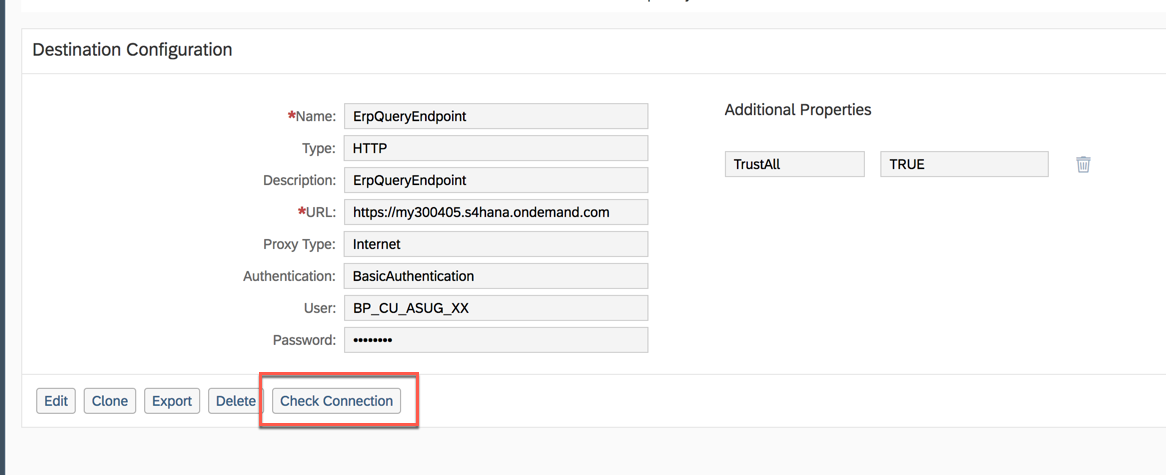
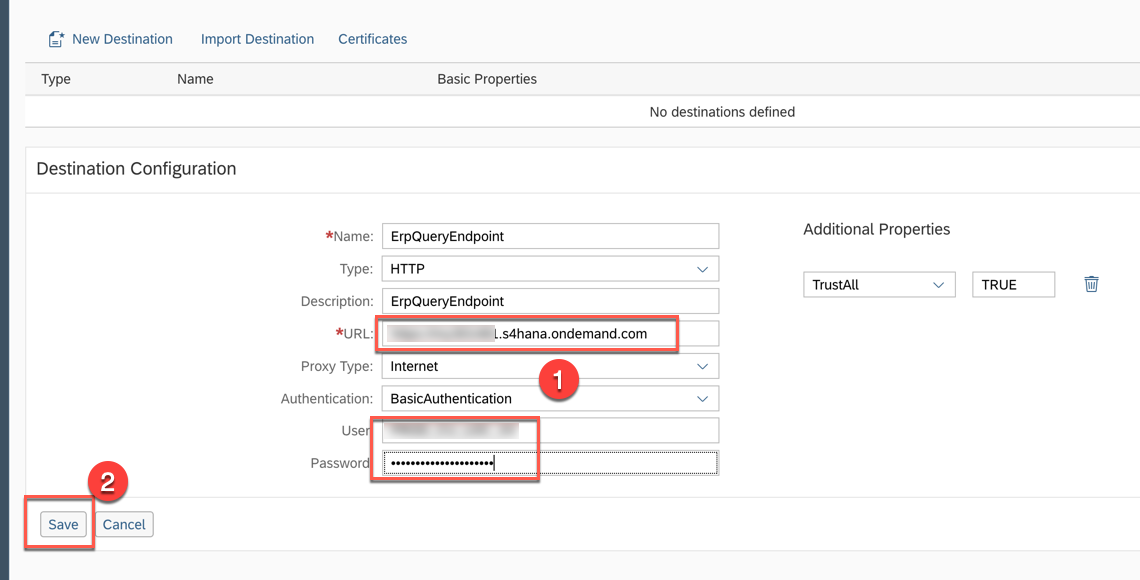
Exercise 2_4 is done

diff --git a/Day2/Exercise_24/Exercise_24.md b/Day2/Exercise_24/Exercise_24.md
@@ -1,7 +1,7 @@
 <table width=100% border=>
 <tr><td colspan=2><img src="images/spacer.png"></td></tr>
 <tr><td colspan=2><h1>EXERCISE 24 - Create service destinations on both SAP Cloud Platform Neo and Cloud Foundry environments</h1></td></tr>
-<tr><td><h3>ASUG PreConference 2018</h3></td><td><h1><img src="images/clock.png"> &nbsp;10 min</h1></td></tr>
+<tr><td><h3>SAP S/4HANA Cloud Bootcamp</h3></td><td><h1><img src="images/clock.png"> &nbsp;10 min</h1></td></tr>
 </table>
 
 
@@ -26,99 +26,110 @@ The goal of this document is to set up some required services for the next exerc
   
 Here below are prerequisites for this exercise.
 
+* You have completed exercise 2_3
 * An account on the SAP Cloud Platform: it will be provided by your instructor along with the required credentials
 * The destination file you can download [here](files/ErpQueryEndpoint_CF.zip). Extract it in a proper location on your disk
 
 
 ## Steps
 
-1. [Create the destination services on SAP CF and check the Neo environemnt](#bpr-destination)
-1. [Check the Neo environemnt](#neo-environment)
+1. [Adjust the destination in the Neo environment](#neo-destination)
+1. [Create the destination services on SAP CF](#cf-destination)
 
+### <a name="neo-destination"></a>Adjust the destination in the Neo environment
+In order to work with Application Programming Model and access the backend from SAP Web IDE we need to do a quick adjustment to the destination on Neo environment
 
-### <a name="bpr-destination"></a>Create the destination services on SAP CF and check the Neo environment
-In this chapter you are going to see how to create an instance of the destination service on SAP Cloud Foundry and how to import a destination file into it.
-
-1. Login to SAP Cloud Platform <https://account.hana.ondemand.com/cockpit#/globalaccount/8fd39023-a237-4d71-9b6a-ed9d1719d275/subaccount/1d4a4a5d-2ada-4584-9c6a-631cb5fa80f2/spaces> with the credentials provided by your instructor 
+1. Go to your SAP Cloud Platform Trial account <https://account.hanatrial.ondemand.com/cockpit> entering your credentials. Click on the **Neo Trial** environment  
 	![](images/01.png)
 
-1. You will find a SAP Cloud Foundry subaccount prepared for you with a space named **ASUGCF_DevXXX** where XXX is your workstation ID. Click on the **ASUGCF** link on the top of the page to go to the subaccount's details  
+1. Select **Connectivity -> Destinations** on the left hand side. You should see the **ErpQueryEndpoint** destination you already created in the exercise 2_3
 	![](images/02.png)
 
-1. Take note of the **API Endpoint** you find on the right side because it will be required in the next exercises when we will ask you to specify your SAP Cloud Foundry API Endpoint and click on the **Spaces** number, just above the API Endpoint    
+1. Select the **ErpQueryEndpoint** destination and click on **Edit** to put the destination in edit mode  
 	![](images/03.png)
 
-1. You are now into your space. It should be empty: if not, please feel free to delete any application you find  
+1. Add the following additional properties and click on **Save**
+	
+	| Property | Value |
+	| -------- | ----- |
+	| WebIDESystem | ErpQueryEndpoint |
+	| WebIDEEnabled | True |
+	| WebIDEUsage | odata_gen |
+	
 	![](images/04.png)
+
+1. This is how your destination should look like after the changes  
+	![](images/05.png)
+
+1. Click on **Home** to go to the home page of your cockpit
+	![](images/06.png)
+
+
+
+
+
+### <a name="cf-destination"></a>Create the destination services on SAP CF
+Let's create a destination to the S/4HANA Cloud back-end for Cloud Foundry as well.
+
+1. Click on the **Cloud Foundry Trial** environment of your Trial account 
+	![](images/07.png)
+
+1. Click on the **trial** subaccount
+	![](images/08.png)
+ 
+1. Take note of the **API Endpoint** you find on the right side because it will be required in the next exercises when we will ask you to specify your SAP Cloud Foundry API Endpoint; then click on **Spaces** in the left hand side toolbar    
+	![](images/09.png)
+
+1. Click on the **dev** space  
+	![](images/10.png)
+
+1. You are now into your space. It should be empty: if not, please delete any application you find since we require space for our exercise  
+	![](images/11.png)
 
 1. Click on the **Service Marketplace** and then on the **destination** tile to create an instance of the **destination** service  
 	![](images/12.png)
 
-1. Click on **Instances** and then on **New Instance**  
+1. Click on **Instances**  
 	![](images/13.png)
 
-1. Choose the **lite** plan and click **Next**  
+1. Click on **New Instance**  
 	![](images/14.png)
 
-1. Click **Next**  
+1. Choose the **lite** plan and click **Next**  
 	![](images/15.png)
 
-1. Don't select any application for the moment and click **Next** again  
+1. Click **Next**  
 	![](images/16.png)
 
-1. Enter **bpr_destination** as the instance name and click **Finish**  
+1. Don't select any application for the moment and click **Next** again  
 	![](images/17.png)
 
-1. Your **bpr_destination** instance has been successfully created. Click on the name of this instance  
+1. Enter **s4hc_destination** as the instance name and click **Finish**  
 	![](images/18.png)
 
-1. Select the **Destinations** tab on the left hand side and click on **Import Destination**  
+1. Your **s4hc_destination** instance has been successfully created. Click on the name of this instance  
 	![](images/19.png)
 
-1. Locate the file *ErpQueryEndpoint_CF* you extracted from the zip downloaded in the prerequisites to this exercise  
+1. Select the **Destinations** tab on the left hand side and click on **Import Destination**  
 	![](images/20.png)
 
-1. The file will be imported. Just enter the credentials provided by your instructor and click **Save**  
+1. Locate the file *ErpQueryEndpoint_CF* you extracted from the zip downloaded in the prerequisites to this exercise and import it  
 	![](images/21.png)
 
-1. After saving, you can check the new destination by clicking on the button **Check Connection**  
+1. Before clicking on **Save**, replace the existing URL and the credentials with the one you created in exercise 2_2  
 	![](images/22.png)
 
-1. You should get the message **Connection to "ErpQueryEndpoint"" established. Response returned: "302: Redirect"**. Click on **Close**  
+1. After saving, you can check the new destination by clicking on the button **Check Connection**  
 	![](images/23.png)
 
-
-### <a name="neo-environment"></a>Check the Neo environemnt
-Let's gie a look now to the NEO environment and let's check that everything is in place.
-
-1. Click on this link <https://account.hana.ondemand.com/cockpit> and enter the credentials for the NEO environment provided by your instructor
+1. You should get the message **Connection to "ErpQueryEndpoint"" established. Response returned: "302: Redirect"**. Click on **Close**  
 	![](images/24.png)
 
-1. Just click on **Confirm** in case you receive this kind of message  
-	![](images/24_2.png)
-
-1. Click on the **TechEd2018** Global Account  
-	![](images/24_3.png)
-
-1. Click on the **ASUG** subaccount  
-	![](images/24_4.png)
-
-1. **[Read and Check Only]** Select **Connectivity -> Destinations** on the left hand side and just make sure that the **ErpQueryEndpoint** destination is correctly in place. Here we have already imported this destination since all the users will share it in the next exercises
-	![](images/26.png)
-
-1. Click on **Services**, enter the text "**web**" in the search box, and click on the **SAP Web IDE Full-Stack** tile  
-	![](images/27.png)
-
-1. Click on **Go to Service**  
-	![](images/28.png)
-
-1. The **SAP Web IDE** tools is launched. Please bookmark this URL becaue it will be used in the next exercises  
-	![](images/29.png)
 
 1. Congratulations! You have successfully completed this exercise.
 
 
 
 ## Summary
-This concludes the exercise. You should have learned how to create a Destination service instance in SAP Cloud Foundry. Please proceed with the [next exercise](../Exercise2/Exercise2.md).
+This concludes the exercise. You should have learned how to create a Destination service instance in SAP Cloud Foundry. Please proceed with the next exercise.
  
